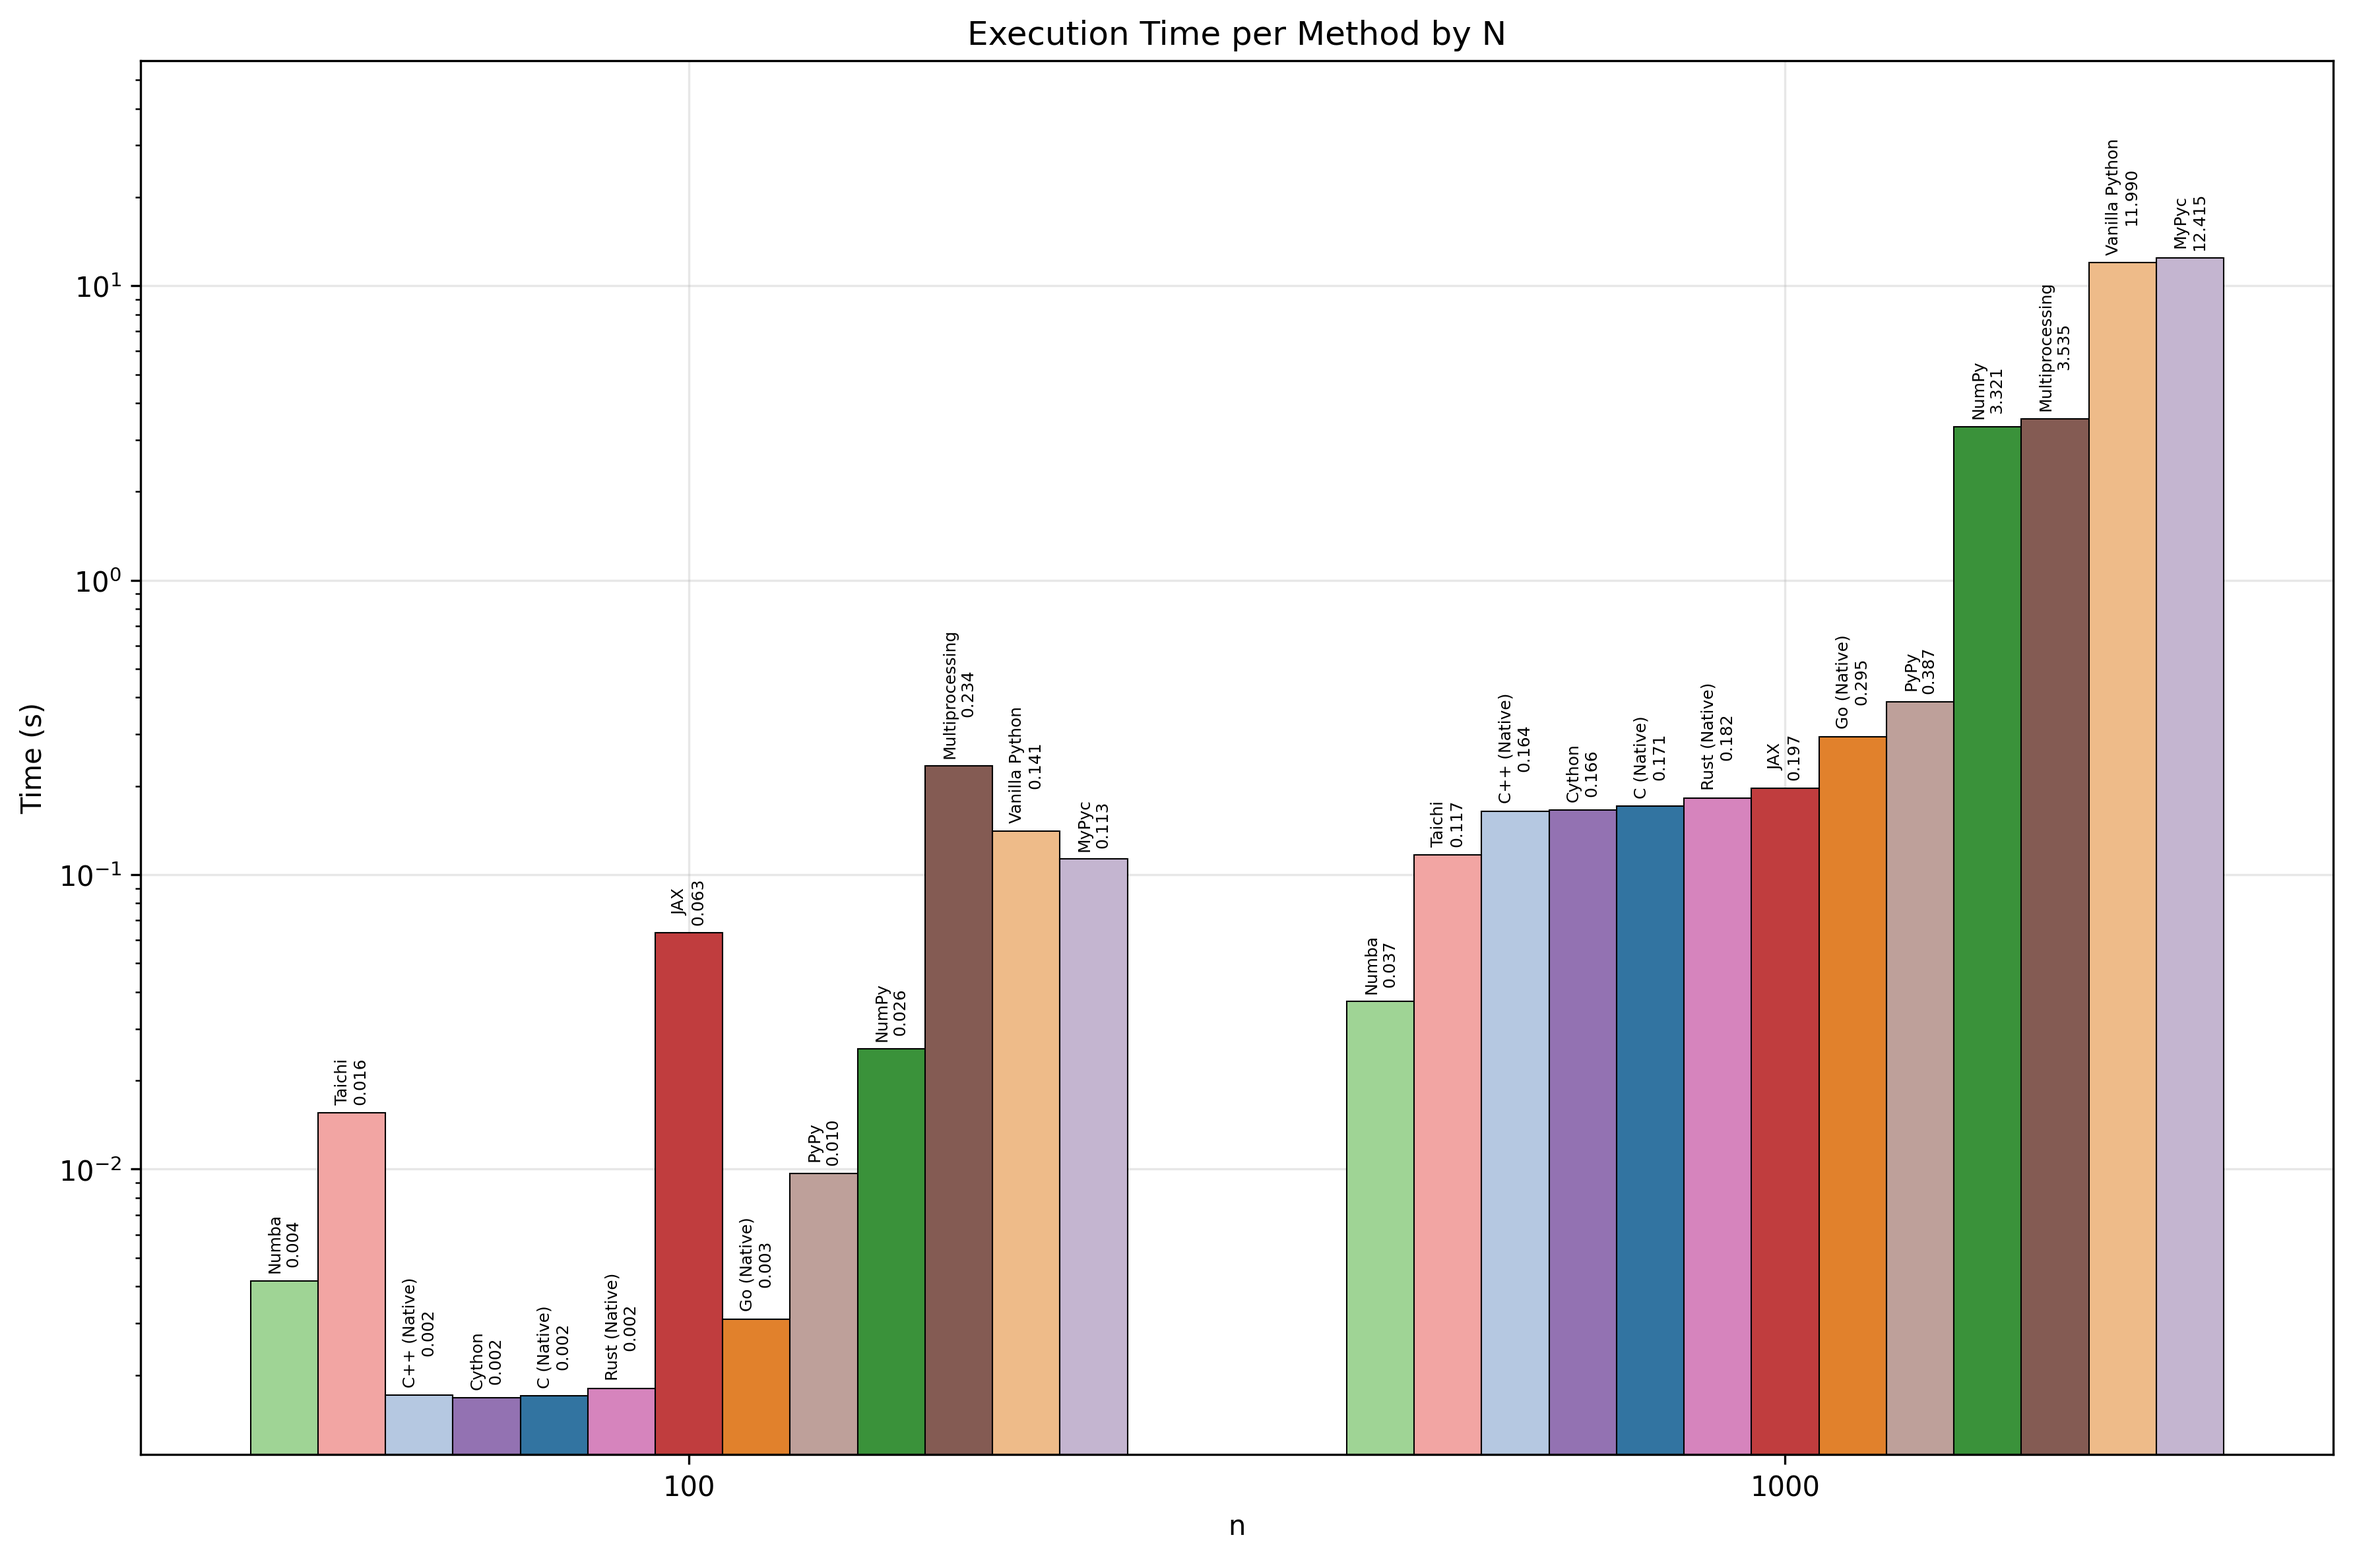
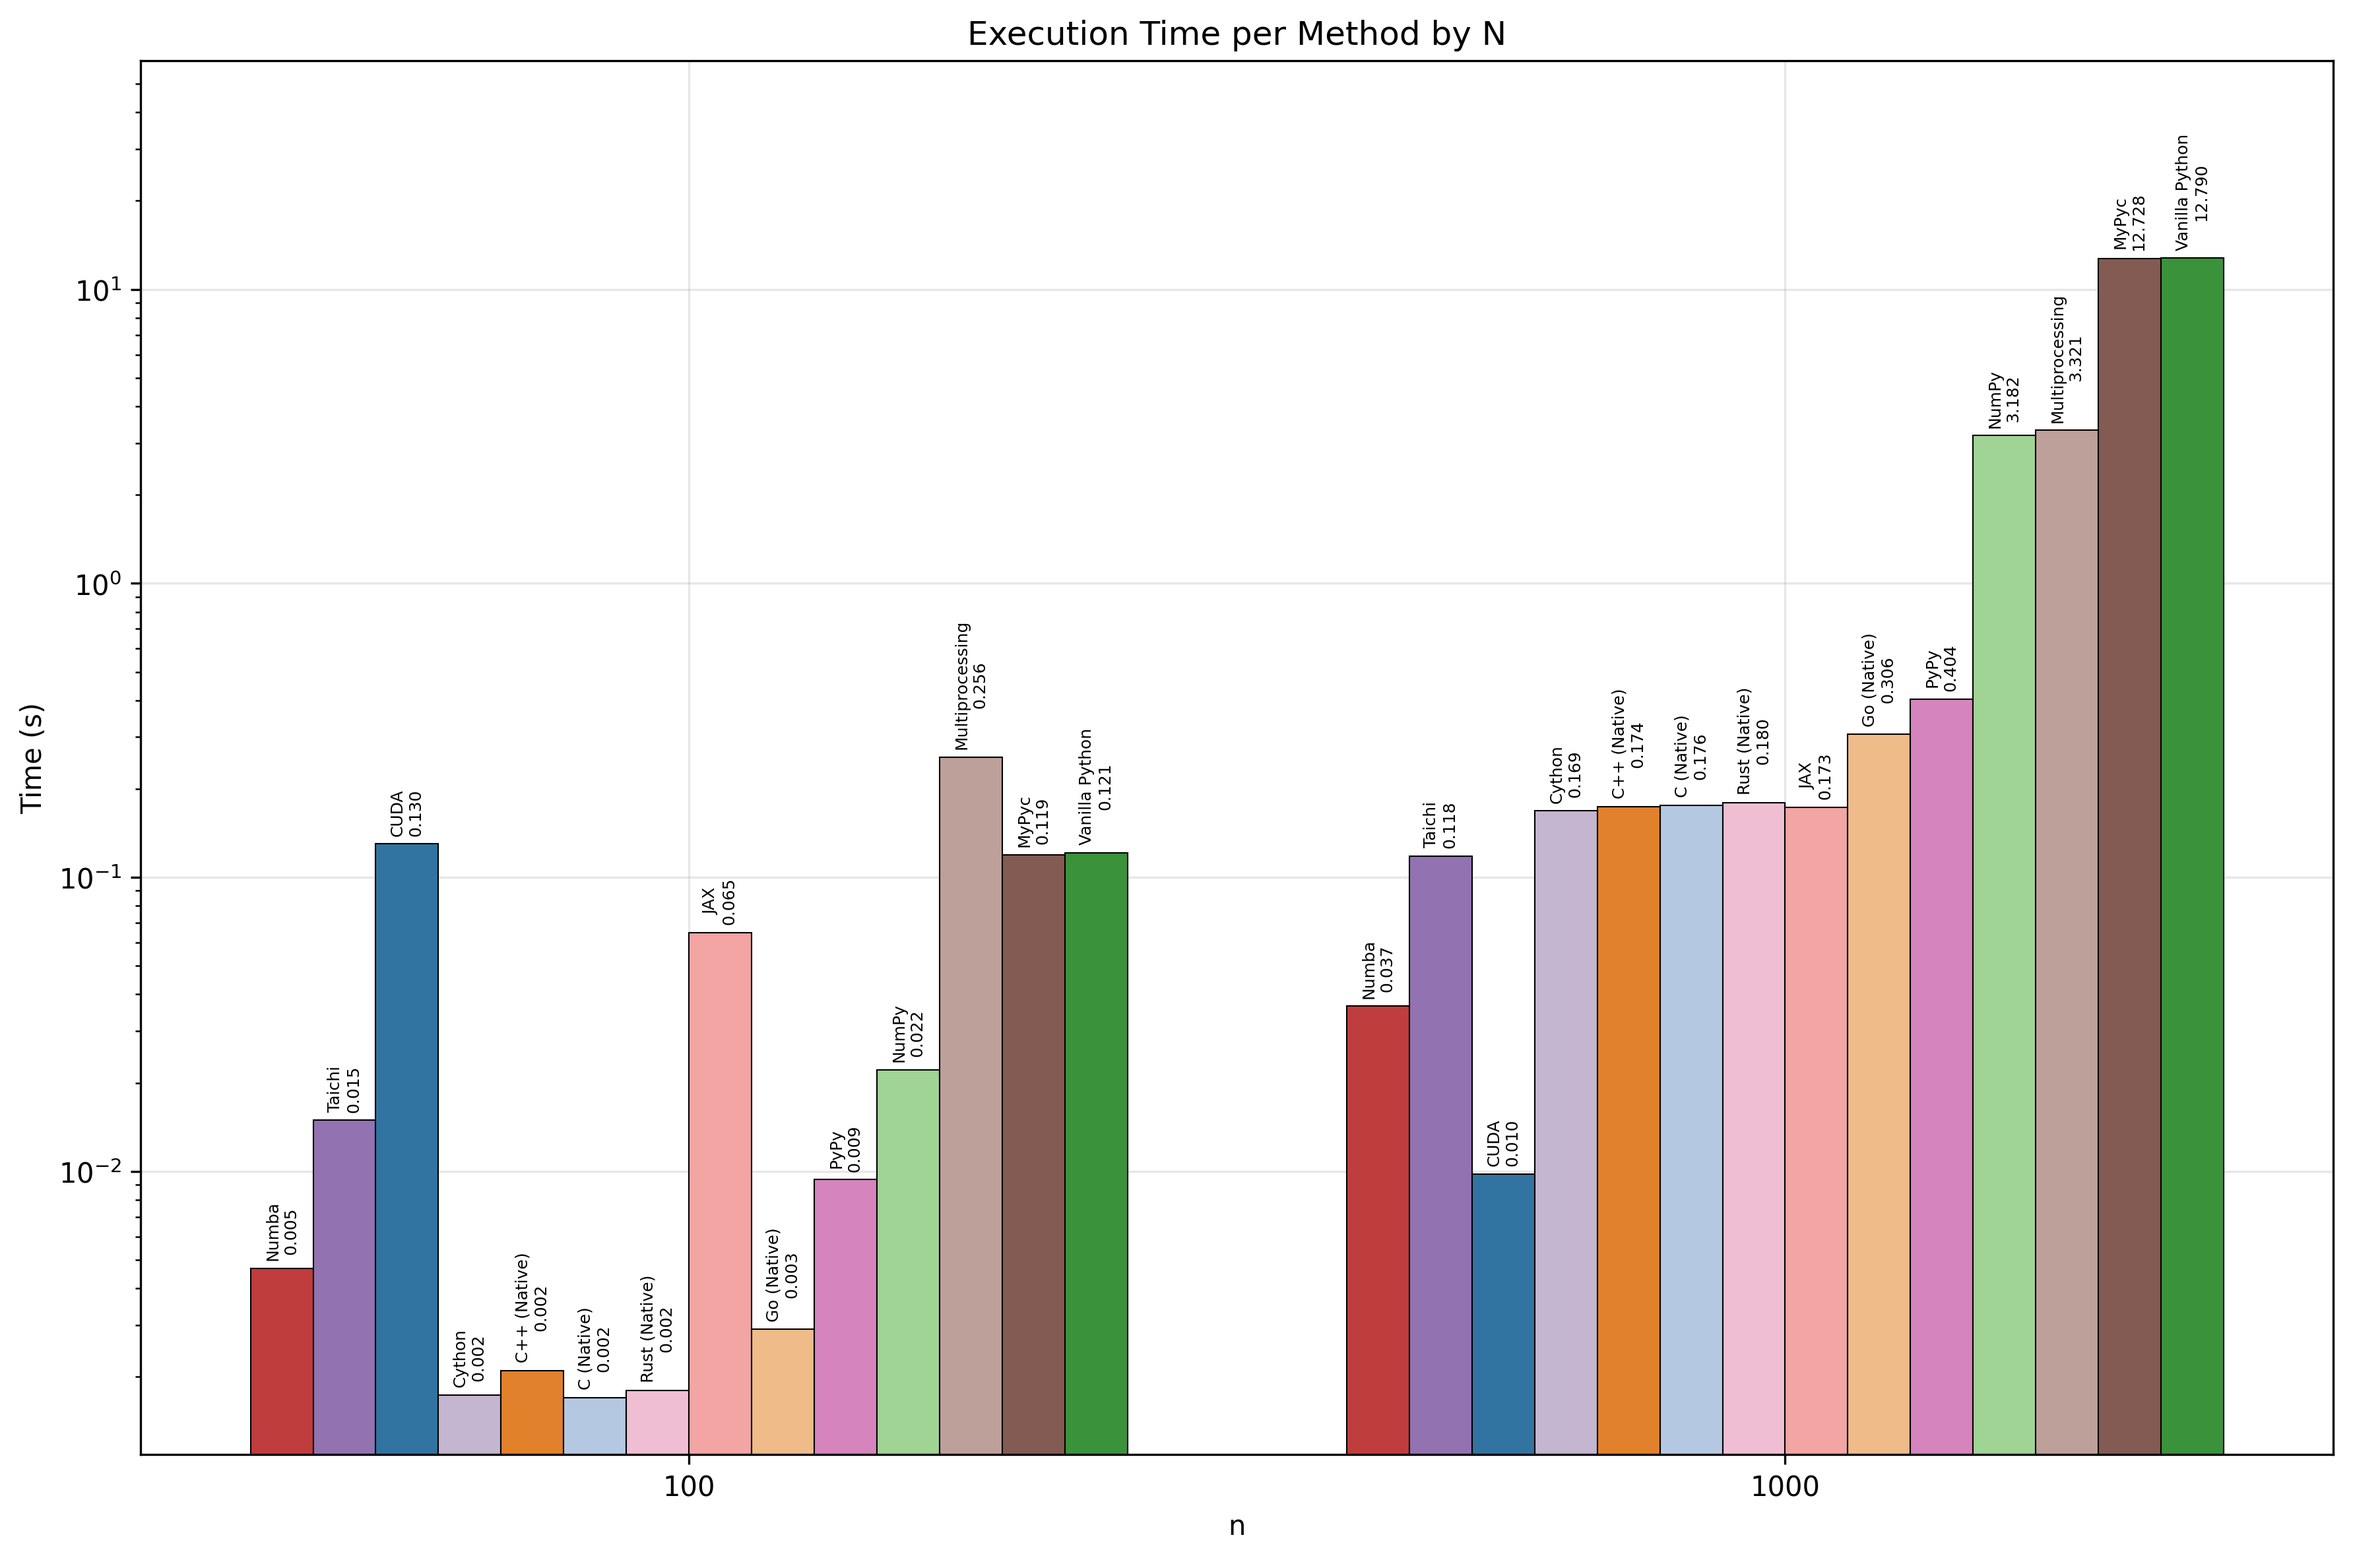
feat: Add CUDA implementation for N-body simulation, integrate it into the benchmarking system, and update documentation.

Changed region(s): [[0.5603, 0.0926, 0.9649, 0.9569], [0.0934, 0.4013, 0.498, 0.9569], [0.0311, 0.7408, 0.0623, 0.7717]]

diff --git a/bench_runner.py b/bench_runner.py
@@ -4,6 +4,33 @@ import platform
 import os
 import sys
 import argparse
+import shutil
+
+def get_gpu_info():
+    try:
+        # Check if nvidia-smi exists
+        if not shutil.which("nvidia-smi"):
+             return "No GPU detected (nvidia-smi not found)"
+        
+        result = subprocess.run(["nvidia-smi", "--query-gpu=name,memory.total", 
+                               "--format=csv,noheader"], capture_output=True, text=True)
+        return result.stdout.strip()
+    except Exception as e:
+        return f"GPU Check Failed: {str(e)}"
+
+def get_cuda_version():
+    try:
+        # Check if nvcc exists
+        if not shutil.which("nvcc"):
+            return "Unknown (nvcc not found)"
+
+        result = subprocess.run(["nvcc", "--version"], capture_output=True, text=True)
+        for line in result.stdout.splitlines():
+            if "release" in line:
+                return line.strip()
+        return "Unknown"
+    except:
+        return "Unknown"
 
 def get_system_info():
     processor = platform.processor()
@@ -29,6 +56,8 @@ def get_system_info():
         "release": platform.release(),
         "python": platform.python_version(),
         "processor": processor or "Unknown",
+        "gpu": get_gpu_info(),
+        "cuda_version": get_cuda_version(),
     }
 
 def run_benchmark(command, name, n, steps):
@@ -60,7 +89,7 @@ def run_benchmark(command, name, n, steps):
 
 if __name__ == "__main__":
     parser = argparse.ArgumentParser(description="Run N-body benchmarks")
-    parser.add_argument("--type", choices=["all", "python", "c_cpp", "rust", "go"], default="all", help="Type of benchmarks to run")
+    parser.add_argument("--type", choices=["all", "python", "c_cpp", "rust", "go", "cuda"], default="all", help="Type of benchmarks to run")
     parser.add_argument("--n", type=int, nargs="+", default=[100, 1000], help="N values to test")
     parser.add_argument("--steps", type=int, default=50, help="Number of steps")
     args = parser.parse_args()
@@ -86,6 +115,7 @@ if __name__ == "__main__":
         (["src/c_impl/nbody.exe"] if os.name == 'nt' else ["./src/c_impl/nbody"], "C (Native)", "c_cpp"),
         (["src/cpp_impl/nbody.exe"] if os.name == 'nt' else ["./src/cpp_impl/nbody"], "C++ (Native)", "c_cpp"),
         (["src/go_impl/nbody_go.exe"] if os.name == 'nt' else ["./src/go_impl/nbody_go"], "Go (Native)", "go"),
+        (["src/cuda_impl/nbody_cuda.exe"] if os.name == 'nt' else ["./src/cuda_impl/nbody_cuda"], "CUDA", "cuda"),
     ]
     
     # Filter implementations

diff --git a/README.md b/README.md
@@ -53,6 +53,25 @@ These serve as the "speed limit" to see how close our Python optimizations can g
 - **C++**
 - **Go**
 
+### GPU/CUDA Implementation
+
+- **CUDA C++**
+  - Explicit GPU parallelization using NVIDIA CUDA
+  - Requires NVIDIA GPU with Compute Capability 3.5+
+  - *Pros*: Massive parallelization, 10-100x speedup for large N
+  - *Cons*: Requires NVIDIA GPU, complex memory management
+
+#### GPU Requirements
+- NVIDIA GPU with CUDA support
+- CUDA Toolkit 11.0+
+- Docker with nvidia-docker2 support
+
+#### Running with GPU:
+```bash
+# Requires --gpus flag
+docker run --gpus all nbody-cuda
+```
+
 ## How to Run
 
 > **Note:** Ensure you have Docker installed on your machine to run the benchmarks seamlessly.
